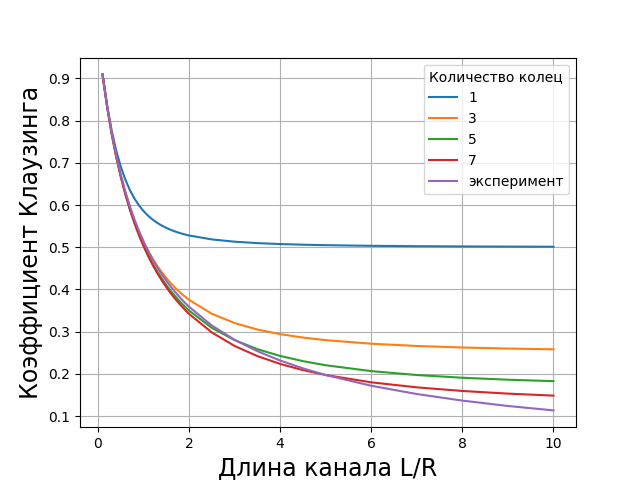
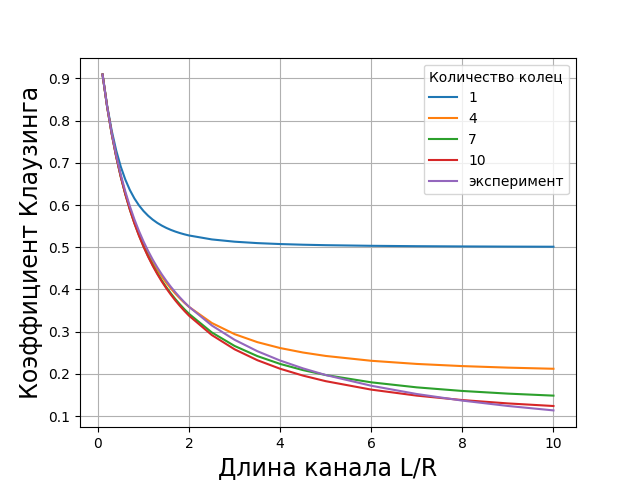
making edits

diff --git a/sep/round/__init__.py b/sep/round/__init__.py
@@ -9,7 +9,7 @@ class RoundSeparator:
 
     def calc_ac(self) -> NDArray:
         phi_00 = phi_11 = 0.0
-        s = self.L / float(self._count_cells)
+        s = self.L / self._count_cells
         phi_01 = phi_10 = 1.0 / (2.0 * self.R ** 2) * (s ** 2 + 2.0 * self.R ** 2
                                                        - s * (s ** 2 + 4.0 * self.R ** 2) ** 0.5)
         phi_02 = phi_12 = 1.0 - phi_00 - phi_10
@@ -18,37 +18,41 @@ class RoundSeparator:
         return np.array([[phi_00, phi_01, phi_02], [phi_10, phi_11, phi_12], [phi_20, phi_21, phi_22]],
                         dtype=float)
 
-    def solve_sle(self, coeffs: NDArray) -> NDArray:
-        if not coeffs.size:
+    def solve_sle(self, coeffs: NDArray = None) -> NDArray:
+        if coeffs is None:
             coeffs = self.calc_ac()
+
+        def fill_sle(i):
+            sle[i][i] = 1.0
+            sle[i][i - 3] = -coeffs[0][1]
+            sle[i][i - 1] = -coeffs[2][1]
+
+            if i == 0:
+                # the entrance section of the first ring
+                sle[0] = [0.0] * 3 * n
+                sle[0][0] = 1.0
+            if i < 3 * (n - 1):
+                sle[i + 1][i + 1] = 1.0
+                sle[i + 1][i + 1 + 3] = -coeffs[1][0]
+                sle[i + 1][i + 1 + 4] = -coeffs[2][0]
+            else:
+                # the output section of the last ring
+                sle[3 * n - 2][3 * n - 2] = 1.0
+
+            sle[i + 2][i] = -coeffs[0][2]
+            sle[i + 2][i + 1] = -coeffs[1][2]
+            sle[i + 2][i + 2] = 1.0 - coeffs[2][2]
+
         n = self._count_cells
-
-        def create_sle() -> NDArray:
-            sle = [[0.0] * 3 * n for _ in range(3 * n)]
-            for i in range(0, 3 * n, 3):
-                sle[i][i] = 1.0
-                sle[i][i - 3] = -coeffs[0][1]
-                sle[i][i - 1] = -coeffs[2][1]
-
-                if i < 3 * (n - 1):
-                    sle[i + 1][i + 1] = 1.0
-                    sle[i + 1][i + 1 + 3] = -coeffs[1][0]
-                    sle[i + 1][i + 1 + 4] = -coeffs[2][0]
-                else:
-                    sle[3 * n - 2] = [1.0 if j == 3 * n - 2 else 0.0 for j in range(3 * n)]
-
-                sle[i + 2][i] = -coeffs[0][2]
-                sle[i + 2][i + 1] = -coeffs[1][2]
-                sle[i + 2][i + 2] = 1.0 - float(coeffs[2][2])
-
-                if i == 0:
-                    sle[0] = [1.0 if j == 0 else 0.0 for j in range(3 * n)]
-            return np.array(sle, dtype=float)
-
-        b = np.array([1.0 if j == 0 else 0.0 for j in range(3 * n)], dtype=float)
-        return np.linalg.solve(create_sle(), b)
+        sle = np.zeros((3*n, 3*n), dtype=float)
+        for j in range(0, 3 * n, 3):
+            fill_sle(j)
+        b = np.zeros(3*n, dtype=float)
+        b[0] = 1.0  # the input flow
+        return np.linalg.solve(sle, b)
 
     def calc_clausing(self, coeffs) -> float:
         n = self._count_cells
         flows = self.solve_sle(coeffs)
+        # because coeffs[1][1] == 0
         return flows[3 * n - 1] * coeffs[2][1] + flows[3 * n - 3] * coeffs[0][1]

diff --git a/main.py b/main.py
@@ -6,40 +6,56 @@ import numpy as np
 
 
 def plot_num_of_cells(R, L, nums: NDArray[int]):
-    def calc_dependence():
-        Y = [0.0] * len(nums)
+    def calc_graph():
+        Y = np.zeros(len(nums), dtype=float)
         for i in range(len(nums)):
             s = RoundSeparator(R, L, nums[i])
             coeffs = s.calc_ac()
             Y[i] = s.calc_clausing(coeffs)
-        return np.array(Y)
+        return Y
 
     plt.xlabel("Количество ячеек n", size=17)
     plt.ylabel("Коэффициент Клаузинга", size=17)
-    plt.plot(nums, calc_dependence())
+    plt.plot(nums, calc_graph())
     plt.grid()
     plt.show()
 
 
-def plot_len(R, lens, nums, k: NDArray | None = None):
-    def calc_dependence(n):
-        Y = [0.0] * len(lens)
+def plot_len(R, lens, nums, k: NDArray = None):
+    def calc_graph(n):
+        Y = np.zeros(len(lens), dtype=float)
         for i in range(len(lens)):
             s = RoundSeparator(R, lens[i], n)
             coeffs = s.calc_ac()
             Y[i] = s.calc_clausing(coeffs)
-        return np.array(Y)
+        return Y
 
-    for num in nums:
-        plt.plot(lens, calc_dependence(num), label=f"{num}")
-    g = Graph()
-    if k is not None and len(k):
-        plt.plot(lens, k, label=f"эксперимент")
-    plt.xlabel("Длина канала L/R", size=17)
-    plt.ylabel("Коэффициент Клаузинга", size=17)
-    plt.legend(title="Количество колец")
-    plt.grid()
-    plt.show()
+    def clausing():
+        for num in nums:
+            plt.plot(lens, graphs[num], label=f"{num}")
+        if k is not None and len(k):
+            plt.plot(lens, k, label=f"эксперимент")
+        plt.xlabel("Длина канала L/R", size=17)
+        plt.ylabel("Коэффициент Клаузинга", size=17)
+        plt.legend(title="Количество колец")
+        plt.grid()
+        plt.show()
+
+    def deviation_clausing():
+        if k is None or not len(k):
+            raise ValueError("Invalid value of the k parameter at the plot_deviation_len function")
+        for num in nums:
+            plt.plot(lens, (graphs[num] - k) / k * 100, label=f"{num}")
+        plt.xlabel("Длина канала L/R", size=17)
+        plt.ylabel("Отклонение КК, %", size=17)
+        plt.legend(title="Количество колец")
+        plt.grid()
+        plt.show()
+
+    graphs = {num: calc_graph(num) for num in nums}
+    clausing()
+    deviation_clausing()
+    return
 
 
 def create_x() -> NDArray:
@@ -55,5 +71,4 @@ x = np.arange(1, 31)
 plot_num_of_cells(1, 2, x)
 
 x = np.arange(1, 150)
-#plot_len(1, x, np.array([3, 15, 150, 600]))
-plot_len(0.5, create_x(), np.arange(1, 9, 2), Graph().k[1:])
+plot_len(0.5, create_x(), np.arange(1, 11, 3), Graph().k[1:])

diff --git a/tube.py b/tube.py
@@ -21,7 +21,6 @@ class Tube:
             normal_i = sep.find_normal(i)
             emitter = np.array(emitter)
             for j, collector in enumerate(sep):
-                collector = np.array(collector)
                 from_emitter[j] = calc_elementary(emitter, collector, normal_i, sep.find_normal(j), square)
             res[i] = from_emitter
         return np.array(res)

diff --git a/tests/my_test.py b/tests/my_test.py
@@ -1,5 +1,3 @@
 import numpy as np
 
-x = np.arange(10)
-print(x)
-print(x[:-2])
+print(1.0/3)
